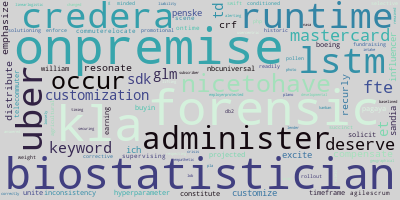
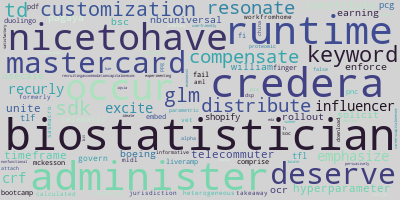
finished parsing monograms down to sponsering

diff --git a/nlp_main.py b/nlp_main.py
@@ -641,7 +641,7 @@ def clean_for_nlp(series_of_interest):
                                             'securely', 'contractual', 'multiyear', 'solved', 'embraced', 'structural', 'middle',
                                             'prominent', 'safely', '22', 'comprehend', 'testdriven', 'telling', 'consecutive',
                                             'verifying', 'docusign', 'beverage', 'resourceful', 'camera', 'length', 'diagnosis',
-                                            'productionready', 'roll', 'referred', 'treated', 'responding', 'cooperation',
+                                            'productionready', 'roll', 'referred', 'treated', 'responding',
                                             'escalation', 'completely', '5g', 'chronic', 'robustness', 'doctor', 'loved',
                                             'extending', 'gaining', 'oneonone', 'soon', '2014', 'attempt', 'familial', 'navigating',
                                             'commit', 'worth', 'filing', 'modular', 'tn', 'directive', 'defect', 'tested',
@@ -780,15 +780,40 @@ def clean_for_nlp(series_of_interest):
                                             'assortment', 'kenilworth', 'purposedriven', 'slide', 'motivates', 'imagination',
                                             'qualtrics', 'pulling', 'sandia', 'forever', 'uber', 'smaller', 'identityassignment',
                                             'argus', 'al', 'maintainability', 'attracts', 'progressively', 'intermittent',
-                                            'celebrated', 'rated', 'fellowship', 'admission', 'americaunited', '2007',
+                                            'celebrated', 'rated', 'fellowship', 'admission', 'americaunited', '2007', 'ppg', 
                                             'legislation', 'tennessee', 'bid', 'theft', 'gilbert', 'late', 'j', 'novetta',
-                                            'ictap', 'profound', 'observed', 'lincoln', 'brought', 'inferentia', 'seed',
-                                            'maximus', 'allinclusive', 'voicebots', 'distinct', 'outline', 'baltimore', 
+                                            'ictap', 'profound', 'observed', 'lincoln', 'brought', 'inferentia', 'seed', 'vet',
+                                            'maximus', 'allinclusive', 'voicebots', 'distinct', 'outline', 'baltimore', 'alpha',
                                             'who', 'derivative', '23a', 'adapts', 'formatting', 'unrivaled', 'incoming', 'nuance',
                                             'happening', 'playbook', 'mechanicsburg', 'hit', 'indianapolis', 'conceptdrift',
                                             'routing', 'profession', 'fte', 'onprem', 'frontier', 'charged', 'cure', 'servant',
                                             'instore', 'reasonably', 'uncovering', 'clickstream', 'diarization', 'wage', 'default',
-                                            'spec', 'prosperity', 'relies', 'accelerated', 'redhorse', 'hierarchy', 'deploys']))) + ds_skills_combined
+                                            'spec', 'prosperity', 'relies', 'accelerated', 'redhorse', 'hierarchy', 'deploys',
+                                            'takeaway', 'jurisdiction', '49014920', 'distribute', 'careerscapitalonecom', 'false',
+                                            'recruitingaccommodationcapitalonecom', 'telematics', 'workfromhome', 'heterogeneous',
+                                            'attach', 'copssc', 'finger', 'aml', 'bae', 'china', 'formerly', 'informative',
+                                            'calculated', '710', 'occur', 'td', 'pcg', 'harbor', 'educator', 'openended',
+                                            'solicit', 'neighborhood', 'bit', 'fertility', 'fail', 'ideate', 'satisfactory',
+                                            'tobacco', 'pioneered', '3000', '2013', 'leidos', 'economist', 'nashville', 'summer',
+                                            'rwd', 'uipath', 'prompt', 'userfriendly', 'informing', 'thermo', 'eap', 'bespoke',
+                                            'nonfunctional', '18003049102', 'fraudulent', 'residence', 'persuasively', 'invests',
+                                            'correspondence', 'counter', 'underserved', 'spanish', 'boeing', 'antonio', '2015',
+                                            'nonmerit', 'uploaded', 'disorder', 'permission', 'earlystage', 'collibra', 'openly',
+                                            'gdit', 'configuring', 'expansive', 'offchain', 'osha', 'dignity', 'poor', 'choosing',
+                                            'recreational', 'vulnerable', 'threshold', 'conflicting', 'unpaid', 'cardinal',
+                                            'compiling', 'salaried', 'squad', 'distinctive', 'edw', 'geared', 'bottleneck',
+                                            'urgent', 'entail', 'mlbased', 'argonne', 'asks', 'riverside', 'extends', 'broker',
+                                            'easytounderstand', 'letting', 'consults', 'moderately', 'epa', 'lgbtq', 'repetitive',
+                                            'contracted', 'multi', 'elite', 'latitude', 'wellpositioned', 'heor', 'upper',
+                                            'weapon', '60135c', 'winner', 'ocr', 'nonclinical', 'august', 'usually',
+                                            'personalizing', 'berlin', 'williams', 'valuebased', 'z', 'pdf', 'provisioning',
+                                            'siemens', 'olap', 'recurly', 'encryption', 'cx', 'internetnative', 'satisfied',
+                                            'highprofile', 'blood', 'intends', 'adverse', 'worksm', 'placed', 'datarich',
+                                            'instructor', 'renewal', 'responsiveness', 'realistic', 'toronto', 'differently',
+                                            'metropolitan', 'neuraflash', 'patientfocused', 'constitute', 'raleigh', 'rollout',
+                                            'waterfall', 'mastercard', 'dangerous', 'posture', 'sidebyside', 'pr', 'bidding',
+                                            'postgraduate', 'paramount', 'subordinate', 'hesitate', 'directory', 'instance',
+                                            'disrupted', '36', 'viacomcbs', 'positioning', 'adjusted', 'ltd', 'ee', 'sponsoring']))) + ds_skills_combined
     
     stop_words = nltk.corpus.stopwords.words('english') + additional_stopwords + ds_cred_terms + ds_prof_skill_terms + ds_soft_skill_terms + ds_tech_skill_terms
     
@@ -1094,6 +1119,7 @@ ds_cred_terms = ['ability',
                  'biological',
                  'bioinformatics',
                  'biostatistics',
+                 'biostatisticians',
                  'biotech',
                  'biotechnology',
                  'bsba',
@@ -1140,6 +1166,7 @@ ds_cred_terms = ['ability',
                  'field',
                  'fluency',
                  'fluent',
+                 'ged',
                  'genomic',
                  'genomics',
                  'graduate',
@@ -1156,6 +1183,7 @@ ds_cred_terms = ['ability',
                  'mathematician',
                  'mba',
                  'military', 
+                 'militaryveteran', 
                  'molecular',
                  'msc',
                  'msphd',
@@ -1260,6 +1288,7 @@ ds_tech_skill_terms = ['ab',
                      'athena',
                      'aurora',
                      'automated',
+                     'automates',
                      'automation', 
                      'automate',
                      'automating',
@@ -1296,7 +1325,8 @@ ds_tech_skill_terms = ['ab',
                      'cleansing',
                      'cloud', 
                      'cloudbased',
-                     'cloudnative', 
+                     'cloudnative',
+                     'cloudready',
                      'cluster',
                      'clustering',
                      'cnn',
@@ -1326,6 +1356,7 @@ ds_tech_skill_terms = ['ab',
                      'control',
                      'convolutional',
                      'correlation',
+                     'cplex',
                      'crm',
                      'cs',
                      'cuda',
@@ -1385,6 +1416,7 @@ ds_tech_skill_terms = ['ab',
                      'early', 
                      'ec2',
                      'ecosystem',
+                     'eda',
                      'edge',
                      'elastic',
                      'elasticsearch',
@@ -1399,6 +1431,7 @@ ds_tech_skill_terms = ['ab',
                      'environment',
                      'equation',
                      'error',
+                     'esri',
                      'estimate',
                      'estimating', 
                      'estimation',
@@ -1411,6 +1444,7 @@ ds_tech_skill_terms = ['ab',
                      'experiment',
                      'experimental', 
                      'experimentation',
+                     'experimenting',
                      'exploration',
                      'exploratory',
                      'extract', 
@@ -1446,6 +1480,7 @@ ds_tech_skill_terms = ['ab',
                      'git',
                      'github', 
                      'gitlab',
+                     'glm',
                      'glue',
                      'google',
                      'gpu',
@@ -1467,12 +1502,14 @@ ds_tech_skill_terms = ['ab',
                      'hive',
                      'hpc',
                      'html', 
+                     'hyperparameter',
                      'hypothesis', 
                      'image',
                      'imaging',
                      'imagery',
                      'implement',
                      'implementation',
+                     'imputation', 
                      'inference',
                      'inferential',
                      'informatica',
@@ -1514,6 +1551,7 @@ ds_tech_skill_terms = ['ab',
                      'latest',
                      'leadingedge',
                      'learning',
+                     'learningartificial',
                      'learningdeep',
                      'lex',
                      'library',
@@ -1529,6 +1567,7 @@ ds_tech_skill_terms = ['ab',
                      'looker',
                      'loss',
                      'lstm',
+                     'ltv',
                      'machine',
                      'machinelearning',
                      'maintain',
@@ -1554,12 +1593,14 @@ ds_tech_skill_terms = ['ab',
                      'methodology',
                      'methodological',
                      'metric',
+                     'microservice',
                      'microservices',
                      'microsoft', 
                      'mine',
                      'mining',
                      'ml',
                      'mlai',
+                     'mldl',
                      'mlflow',
                      'mllib',
                      'mlnlp',
@@ -1594,6 +1635,7 @@ ds_tech_skill_terms = ['ab',
                      'normalization',
                      'nosql',
                      'notebook',
+                     'numeric', 
                      'numerical',
                      'numpy',
                      'nvidia',
@@ -1616,8 +1658,10 @@ ds_tech_skill_terms = ['ab',
                      'outlier',
                      'panda', 
                      'parallel',
+                     'parametric',
                      'parsing',
                      'pattern', 
+                     'pca',
                      'pearson',
                      'perl',
                      'petabyte',
@@ -1713,6 +1757,7 @@ ds_tech_skill_terms = ['ab',
                      'science',
                      'scientific',
                      'sciencebased',
+                     'scrappy',
                      'script', 
                      'scripting',
                      'scrum',
@@ -1890,6 +1935,8 @@ ds_soft_skill_terms = ['ad',
                      'continuous', 
                      'contribute',
                      'contributor',
+                     'cooperate',
+                     'cooperative',
                      'coworkers',
                      'creative',
                      'credibility',
@@ -1925,6 +1972,8 @@ ds_soft_skill_terms = ['ad',
                      'experience',
                      'experienced',
                      'explain', 
+                     'explainable',
+                     'explainability',
                      'fast', 
                      'fastmoving',
                      'fastpaced',
@@ -2011,6 +2060,7 @@ ds_soft_skill_terms = ['ad',
                      'prioritization',
                      'prioritizing',
                      'prioritize',
+                     'prioritizes', 
                      'prioritized',
                      'proactive',
                      'proactively',
@@ -2319,7 +2369,6 @@ del df_raw, df_clean, n_gram_count, n_gram_range_start, n_gram_range_stop
 
 
 # close time calculation
-print("--- %s seconds ---" % (time.time() - start_time))
 print(f'\nTotal Processing Time: {(time.time() - start_time) / 60:.2f} minutes')
 
 
